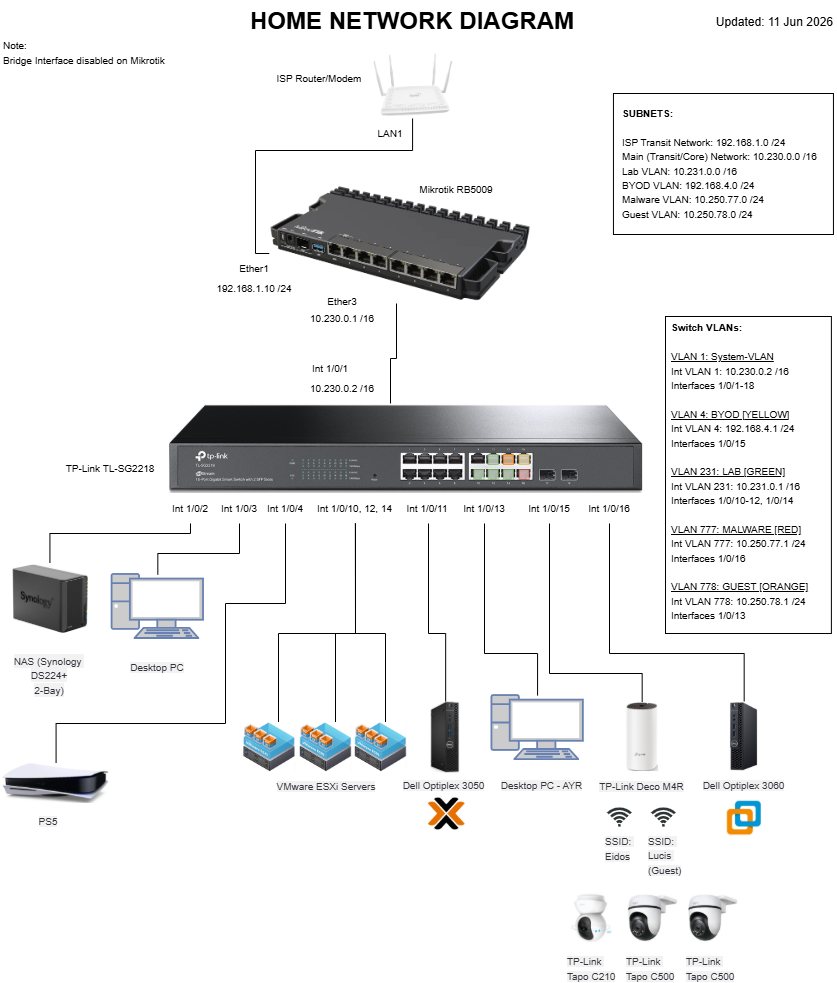
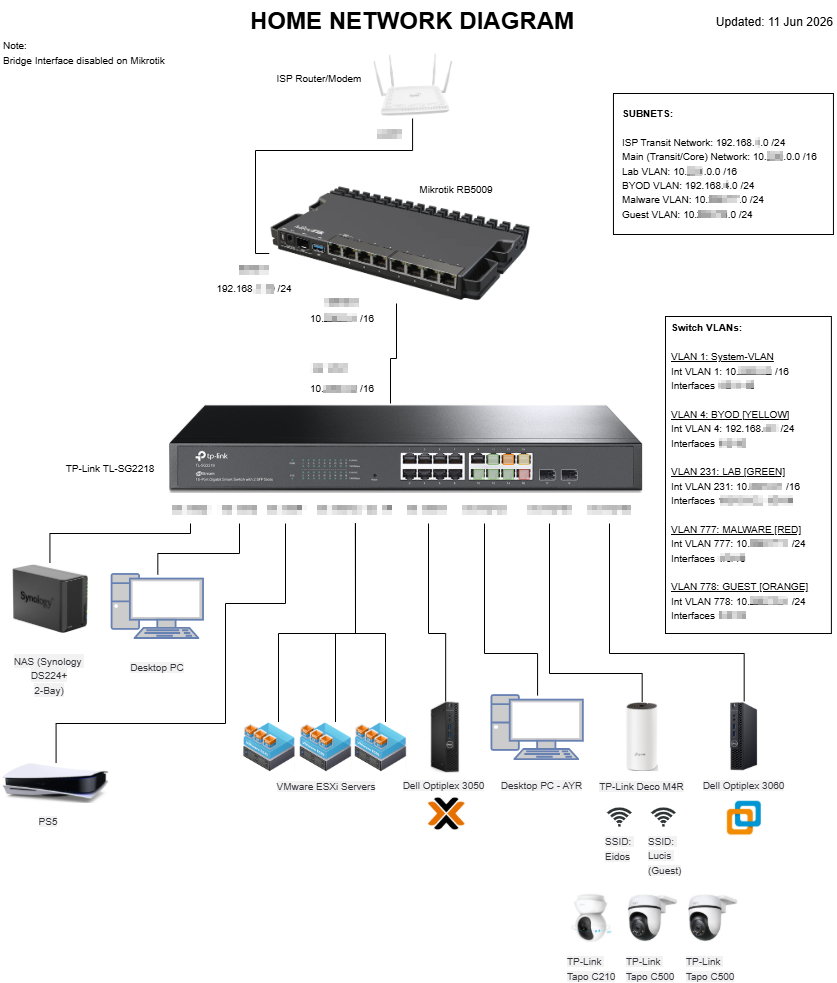
redact information

diff --git a/projects-network-homelab.md b/projects-network-homelab.md
@@ -27,128 +27,20 @@ The goal of this project is to build a robust homelab network that separates tru
 [![Home Network Detailed Diagram](./images/projects/network/homelab/home_network_diagram.png)](./images/projects/network/homelab/home_network_diagram.png)
 
 ### 🔗 Logical Infrastructure (Source)
-The following Mermaid.js source defines the dynamic network topology, demonstrating a "Documentation as Code" approach to infrastructure management.
+The network topology is defined in Mermaid.js source, demonstrating a "Documentation as Code" approach to infrastructure management.
 
-```mermaid
-graph TD
-    %% Define Color Styles matching your subnets
-    classDef mainNet fill:#f8f9fa,stroke:#333,stroke-width:2px;
-    classDef byod fill:#fff3cd,stroke:#ffc107,stroke-width:2px;
-    classDef lab fill:#d1e7dd,stroke:#198754,stroke-width:2px;
-    classDef malware fill:#f8d7da,stroke:#dc3545,stroke-width:2px;
-    classDef guest fill:#ffe8cc,stroke:#fd7e14,stroke-width:2px;
-    classDef hardware fill:#e2e3e5,stroke:#6c757d,stroke-width:2px;
-
-    %% ==========================================
-    %% 1. CORE HARDWARE & ROUTING LAYER DEFINITIONS
-    %% ==========================================
-    ISP[🌐 ISP Router / Modem]:::hardware
-    RB5009[🎛️ Mikrotik RB5009<br/><sub>Bridge Interface Disabled</sub>]:::hardware
-
-    %% ==========================================
-    %% 2. SWITCH MATRIX SUBGRAPH & PORTS
-    %% ==========================================
-    subgraph Core_Switch [🔌 Switch: TP-Link TL-SG2218]
-        VLAN1[VLAN 1: System-VLAN<br/>10.230.0.2/16<br/>Ports 1-0-1 to 1-0-18]
-        VLAN4_Port[VLAN 4: BYOD<br/>Port 1-0-15]
-        VLAN231_Port[VLAN 231: LAB<br/>Ports 1-0-10, 1-0-12, 1-0-14]
-        VLAN777_Port[VLAN 777: MALWARE<br/>Port 1-0-16]
-        VLAN778_Port[VLAN 778: GUEST<br/>Port 1-0-13]
-    end
-    class Core_Switch mainNet;
-
-    %% ==========================================
-    %% 3. VLAN SUBGRAPHS & CONTAINED ENDPOINTS
-    %% ==========================================
-    
-    %% Core Network Nodes (VLAN 1 Systems)
-    subgraph Sys_Devices [Main Network Devices]
-        NAS[💾 NAS Synology DS224+]:::hardware
-        PC[🖥️ Desktop PC]:::hardware
-        PS5[🎮 PS5]:::hardware
-    end
-
-    %% VLAN 231 - LAB Compute
-    subgraph Lab_Network [🟢 VLAN 231: LAB - 10.231.0.0/16]
-        ESXi[⚙️ VMware ESXi Servers]:::hardware
-        Optiplex3050[🖥️ Dell Optiplex 3050/Proxmox]:::hardware
-    end
-    class Lab_Network lab;
-
-    %% VLAN 4 - BYOD Workstation
-    subgraph BYOD_Network [🟡 VLAN 4: BYOD - 192.168.4.0/24]
-        Deco[📡 TP-Link Deco M4R]:::hardware
-        SSID_Eidos((( )))
-        SSID_Lucis((( )))
-        TapoC210[📷 TP-Link Tapo C210]:::hardware
-        TapoC500_1[📷 TP-Link Tapo C500 #1]:::hardware    
-        TapoC500_2[📷 TP-Link Tapo C500 #2]:::hardware    
-        OtherWireless[📱 Other Wireless Devices]:::hardware
-    end
-    class BYOD_Network byod;
-
-    %% VLAN 777 - MALWARE Isolated Sandbox
-    subgraph Malware_Network [🔴 VLAN 777: MALWARE - 10.250.77.0/24]
-        Optiplex3060[🖥️ Dell Optiplex 3060/VMware Workstation]:::hardware
-    end
-    class Malware_Network malware;
-
-    %% VLAN 778 - GUEST
-    subgraph Guest_Network [🟠 VLAN 778: GUEST - 10.250.78.0/24]
-        PC_AYR[🖥️ Desktop PC - AYR]:::hardware
-    end
-    class Guest_Network guest;
-
-
-    %% ==========================================
-    %% 4. RELATIONSHIP LINKS & INTERFACES (BOTTOM)
-    %% ==========================================
-    
-    %% WAN to Router
-    ISP ---|"LAN1 to Ether1 (192.168.1.10/24)"| RB5009
-    
-    %% Uplink Trunk from Router to Switch
-    RB5009 ---|"Ether3 (10.230.0.1/16) to Int 1-0-1"| VLAN1
-
-    %% VLAN 1 Connections
-    VLAN1 ---|Port 1-0-2| NAS
-    VLAN1 ---|Port 1-0-3| PC
-    VLAN1 ---|Port 1-0-4| PS5
-
-    %% VLAN 231 Connections
-    VLAN231_Port ---|Ports 1-0-10,12,14| ESXi
-    VLAN231_Port ---|Port 1-0-11| Optiplex3050
-
-    %% VLAN 4 Connections & Wireless Layout
-    VLAN4_Port ---|Port 1-0-15| Deco
-    
-    %% SSID 1 Layout
-    Deco -.->|SSID: Eidos| SSID_Eidos
-    SSID_Eidos -.-> TapoC210
-    SSID_Eidos -.-> TapoC500_1
-    SSID_Eidos -.-> TapoC500_2
-
-    %% SSID 2 Layout
-    Deco -.->|"SSID: Lucis (Guest)"| SSID_Lucis
-    SSID_Lucis -.-> OtherWireless
-
-    %% VLAN 777 Connections
-    VLAN777_Port ---|Port 1-0-16| Optiplex3060
-
-    %% VLAN 778 Connections
-    VLAN778_Port ---|Port 1-0-13| PC_AYR
-```
+*The Mermaid.js source is not displayed here as it contains internal infrastructure details.*
 
 ### ⚙️ Network Summary
 High-level segmentation strategy.
 
 | VLAN | Name | CIDR Block | Gateway | Target Role |
 | :---: | :--- | :--- | :--- | :--- |
-| **1** | **System** | `10.230.0.0/16` | `10.230.0.1` | Transit Backbone & Management |
-| **4** | **BYOD** | `[phone redacted]/24` | `[phone redacted]` | Mobile Devices & Smart IoT |
-| **231** | **LAB** | `10.231.0.0/16` | `10.231.0.1` | Hypervisors & Testing Sandboxes |
-| **777** | **MALWARE** | `10.250.77.0/24` | `10.250.77.1` | Quarantined Threat Analysis |
-| **778** | **GUEST** | `10.250.78.0/24` | `10.250.78.1` | Isolated Guest Compute |
+| **1** | **System** | `10.XXX.0.0/16` | `10.XXX.0.1` | Transit Backbone & Management |
+| **4** | **BYOD** | `192.168.X.0/24` | `192.168.X.1` | Mobile Devices & Smart IoT |
+| **231** | **LAB** | `10.XXX.0.0/16` | `10.XXX.0.1` | Hypervisors & Testing Sandboxes |
+| **777** | **MALWARE** | `10.XXX.XX.0/24` | `10.XXX.XX.1` | Quarantined Threat Analysis |
+| **778** | **GUEST** | `10.XXX.XX.0/24` | `10.XXX.XX.1` | Isolated Guest Compute |
 
 ### 🖥️ Hardware Inventory
 